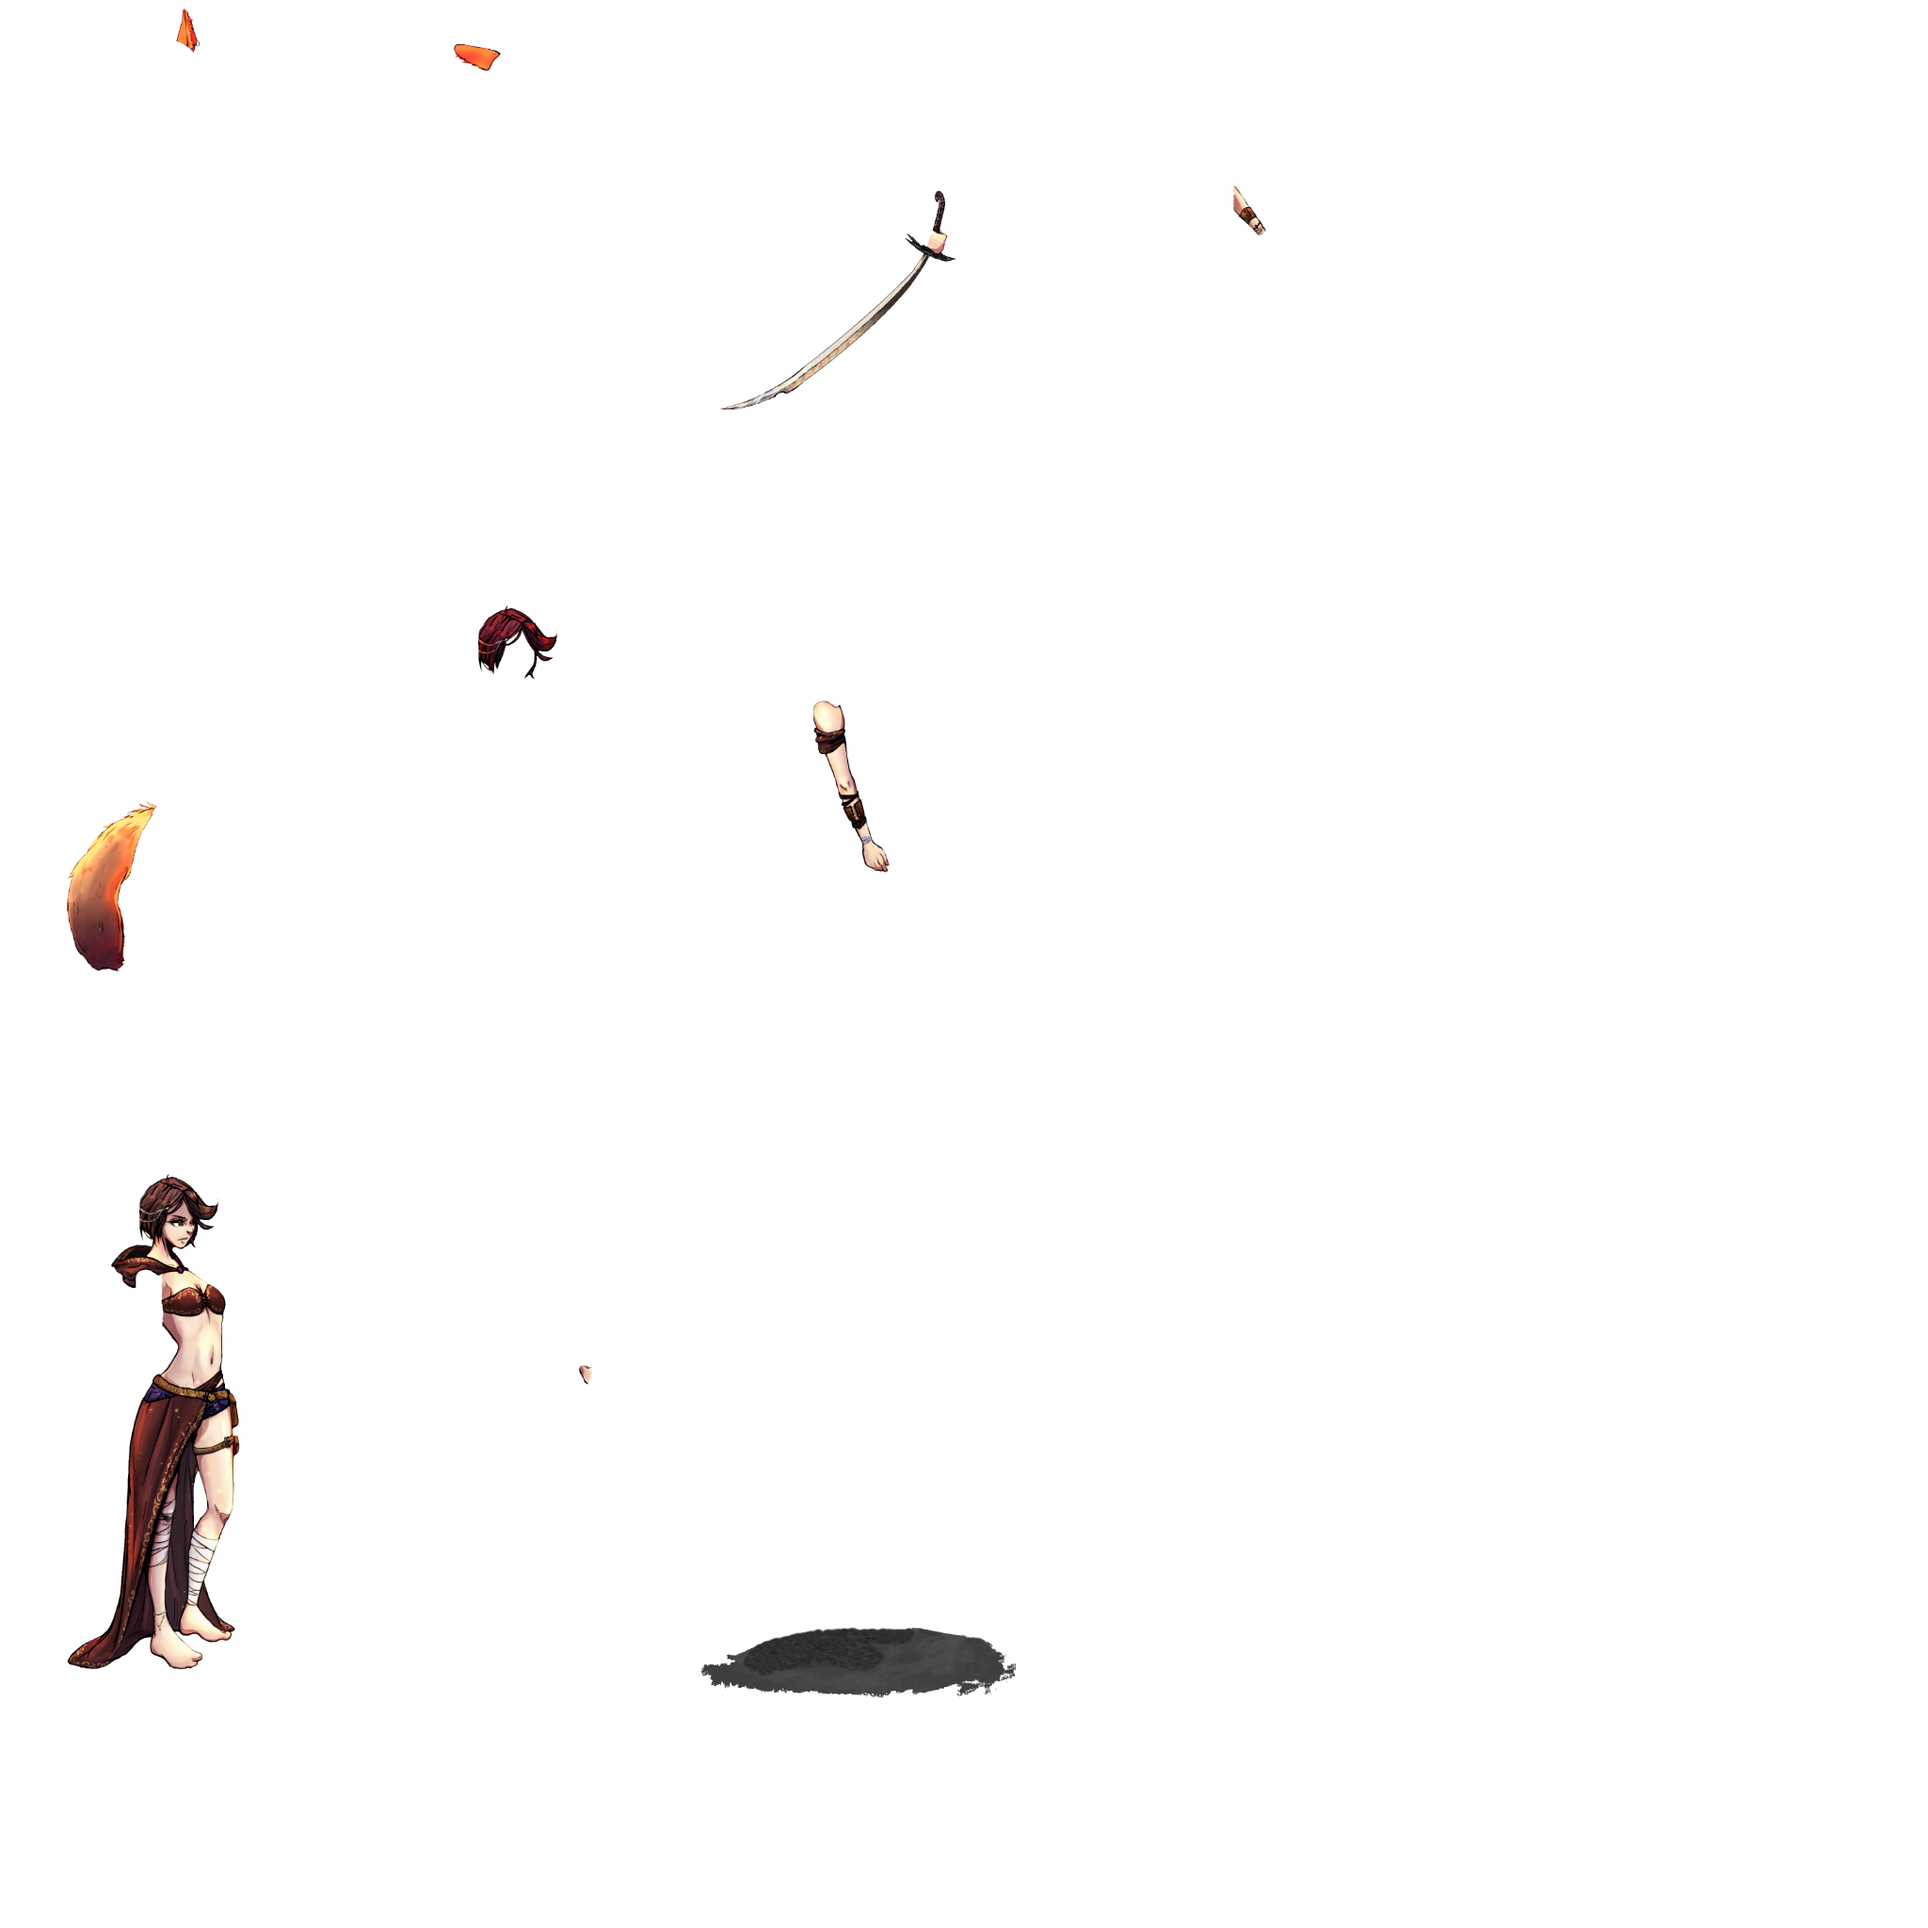
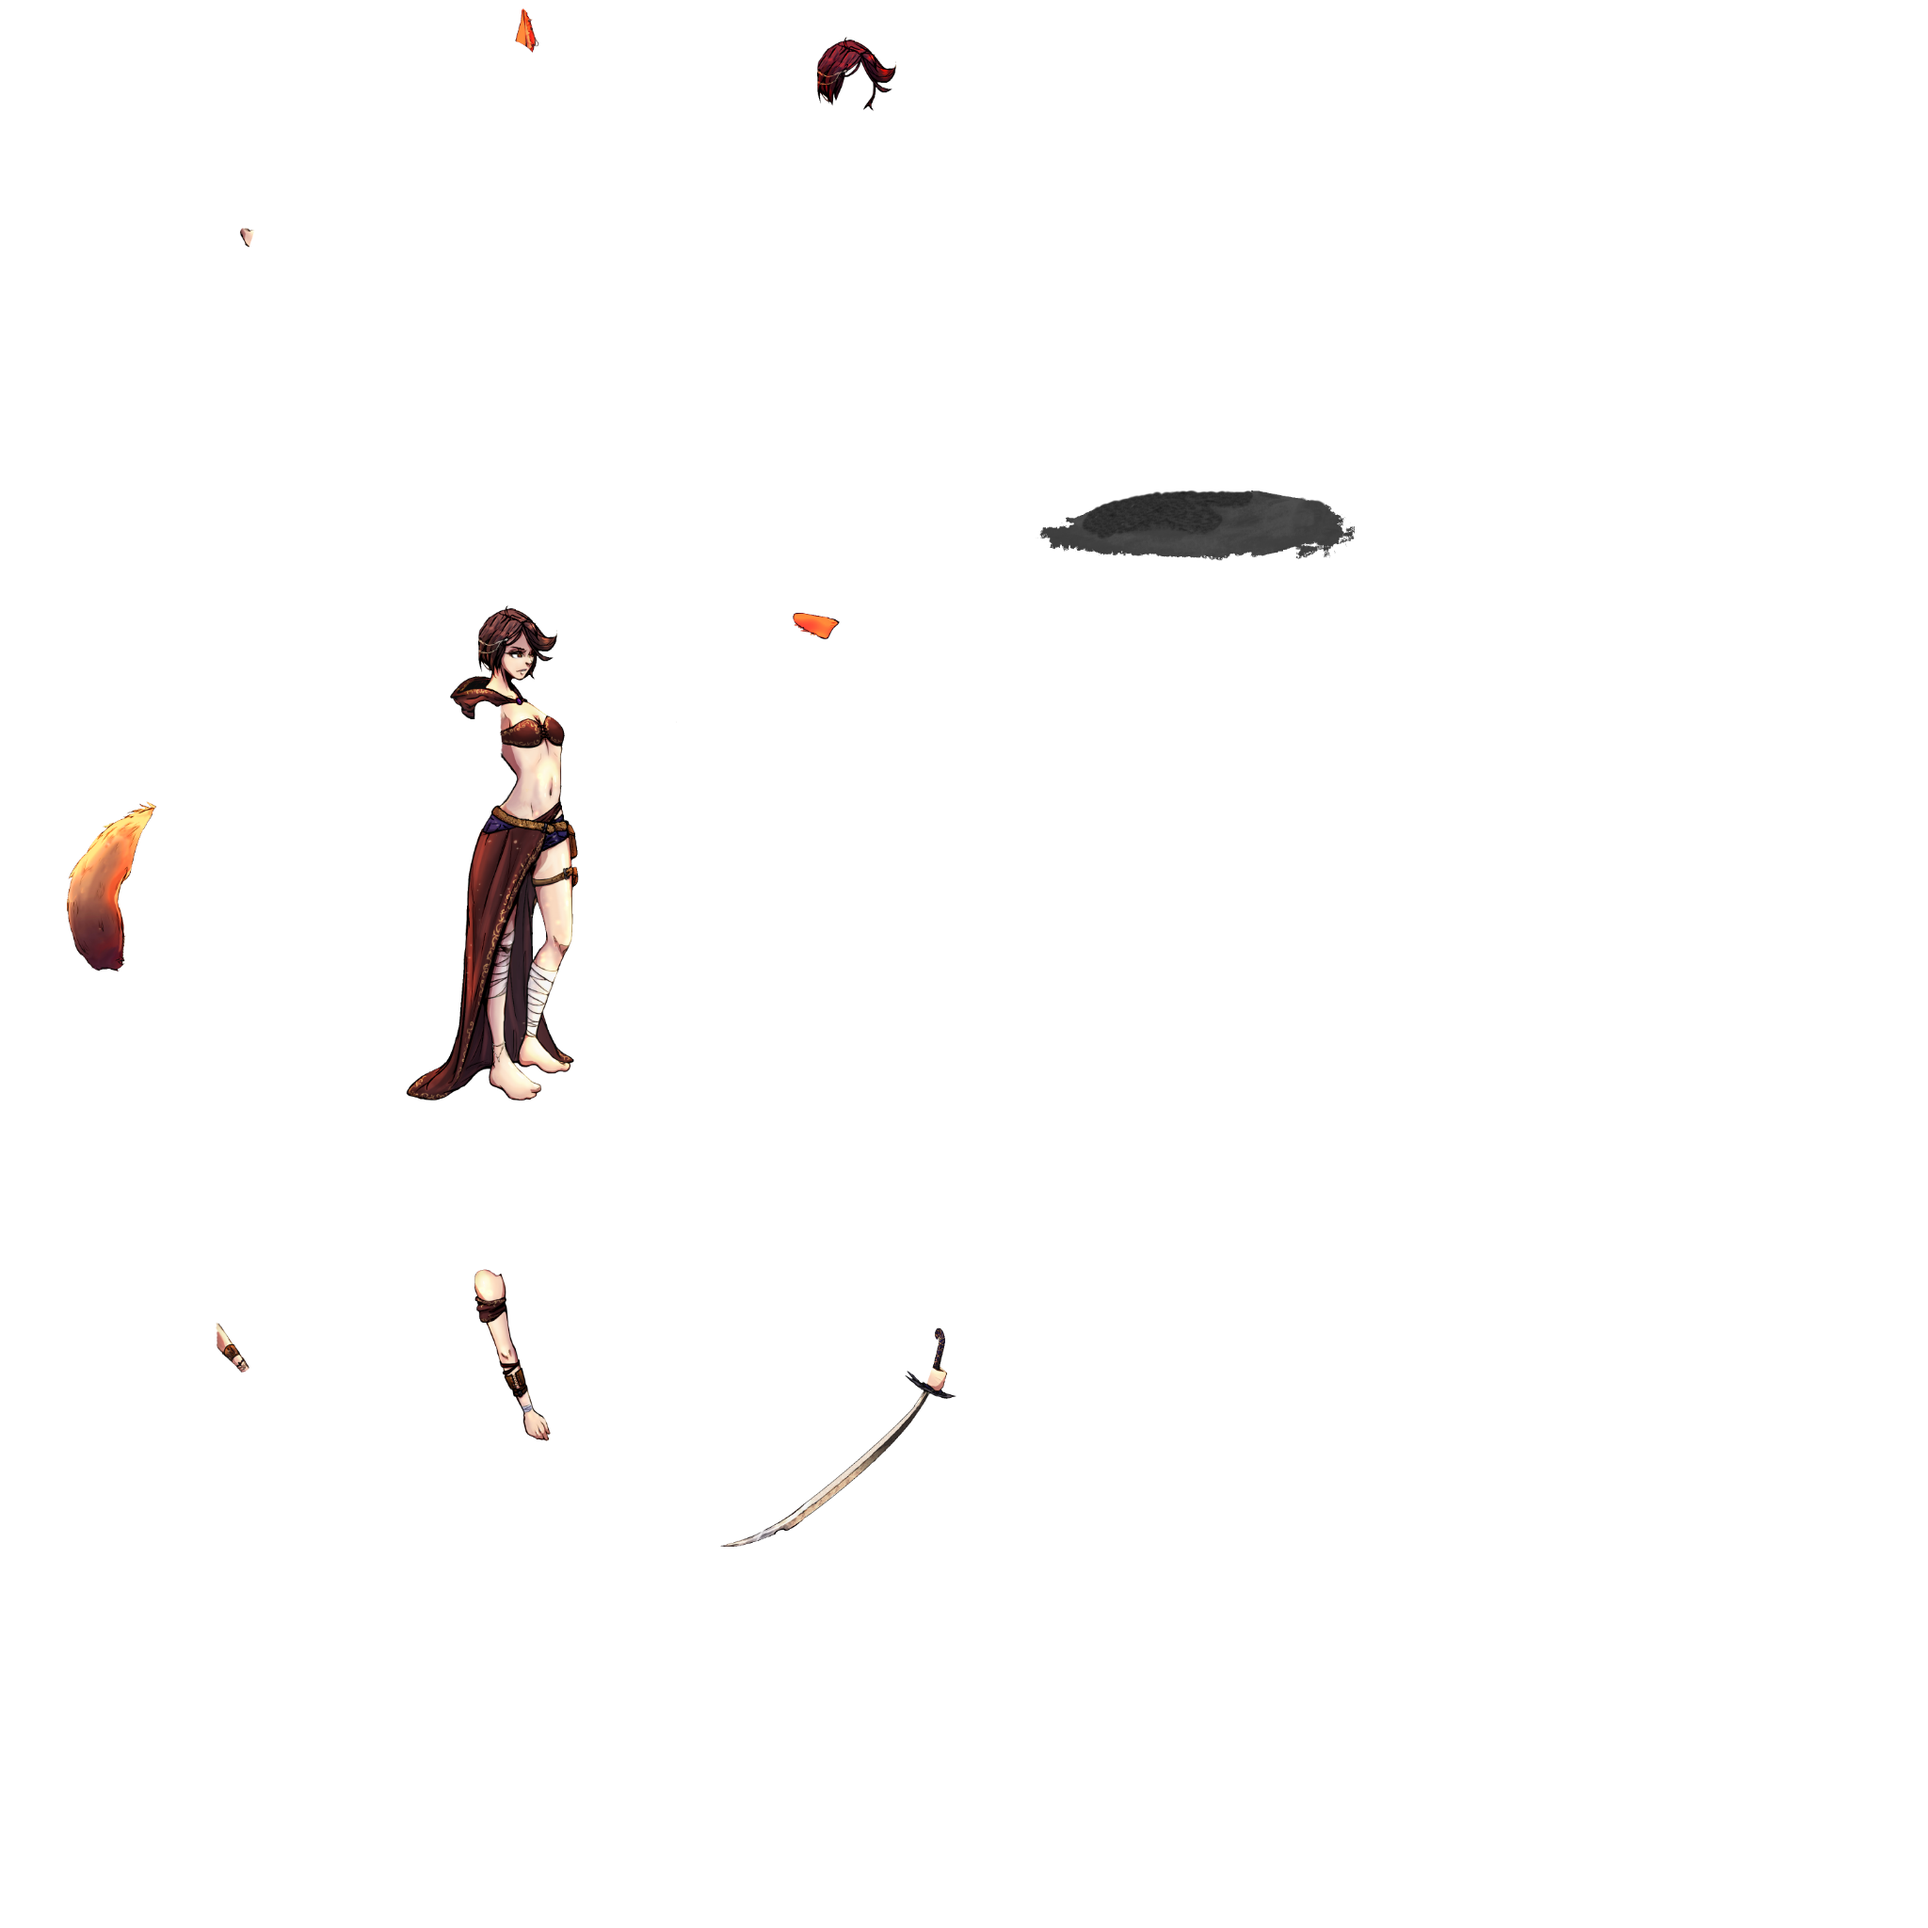
Changing animation framework

diff --git a/src/main/java/kitsunemod/character/KitsuneCharacter.java b/src/main/java/kitsunemod/character/KitsuneCharacter.java
@@ -8,6 +8,8 @@ import com.badlogic.gdx.graphics.g2d.BitmapFont;
 import com.badlogic.gdx.math.MathUtils;
 import com.esotericsoftware.spine.AnimationState;
 import com.esotericsoftware.spine.Skeleton;
+import com.esotericsoftware.spine.Slot;
+import com.esotericsoftware.spine.attachments.Attachment;
 import com.megacrit.cardcrawl.actions.AbstractGameAction;
 import com.megacrit.cardcrawl.actions.common.ApplyPowerAction;
 import com.megacrit.cardcrawl.cards.AbstractCard;
@@ -32,6 +34,7 @@ import kitsunemod.patches.KitsuneEnum;
 import kitsunemod.relics.StarterRelic;
 
 import java.util.ArrayList;
+import java.util.HashMap;
 
 public class KitsuneCharacter extends CustomPlayer {
     public static final int ENERGY_PER_TURN = 3;
@@ -46,7 +49,9 @@ public class KitsuneCharacter extends CustomPlayer {
     private static final String[] TEXT = characterStrings.TEXT;
     private static final float DIALOG_X_ADJUSTMENT = 0.0F;
     private static final float DIALOG_Y_ADJUSTMENT = 220.0F;
-    //private HashMap<String, >
+    private AnimationState.TrackEntry animationTrackEntry;
+    private HashMap<String, Attachment> storedAssets = new HashMap<>();
+    private HashMap<String, Slot> animationSlots = new HashMap<>();
     public static final String[] orbTextures = {
             "kitsunemod/images/char/orb/layer1.png",
             "kitsunemod/images/char/orb/layer2.png",
@@ -68,16 +73,37 @@ public class KitsuneCharacter extends CustomPlayer {
         dialogY = drawY + DIALOG_Y_ADJUSTMENT * Settings.scale;
 
         loadAnimation(SPINE_ATLAS, SPINE_SKELETON, 1.0F);
-        AnimationState.TrackEntry e = this.state.setAnimation(0, "Idle", true);
-        e.setTime(e.getEndTime() * MathUtils.random());
-        this.stateData.setMix("Hit", "Idle", 0.1F);
-        e.setTimeScale(1.0F);
+        animationTrackEntry = state.setAnimation(0, "Idle", true);
+        animationTrackEntry.setTime(animationTrackEntry.getEndTime() * MathUtils.random());
+        animationTrackEntry.setTimeScale(1.0F);
 
         initializeClass(null,
                 MY_CHARACTER_SHOULDER_2,
                 MY_CHARACTER_SHOULDER_1,
                 MY_CHARACTER_CORPSE,
                 getLoadout(), 20.0F, -10.0F, 220.0F, 290.0F, new EnergyManager(ENERGY_PER_TURN));
+    }
+
+    public void transformToFox() {
+
+    }
+
+    public void transformToKitsune() {
+        animationSlots.get("Kitsune Hair").setAttachment(storedAssets.get("Kitsune Hair"));
+        animationSlots.get("Kitsune Tail").setAttachment(storedAssets.get("Kitsune Tail"));
+        animationSlots.get("Kitsune Left Ear").setAttachment(storedAssets.get("Kitsune Left Ear"));
+        animationSlots.get("Kitsune Right Ear").setAttachment(storedAssets.get("Kitsune Right Ear"));
+    }
+
+    public void transformToHuman() {
+        animationSlots.get("Kitsune Hair").setAttachment(null);
+        animationSlots.get("Kitsune Tail").setAttachment(null);
+        animationSlots.get("Kitsune Left Ear").setAttachment(null);
+        animationSlots.get("Kitsune Right Ear").setAttachment(null);
+    }
+
+    public void transformToNinetailed() {
+
     }
 
     @Override
@@ -210,5 +236,21 @@ public class KitsuneCharacter extends CustomPlayer {
     @Override
     protected void loadAnimation(String atlasUrl, String skeletonUrl, float scale) {
         super.loadAnimation(atlasUrl, skeletonUrl, scale);
+
+        Slot hairSlot = skeleton.findSlot("Hair");
+        animationSlots.put("Kitsune Hair", hairSlot);
+        storedAssets.put("Kitsune Hair", hairSlot.getAttachment());
+
+        Slot tailSlot = skeleton.findSlot("Tail");
+        animationSlots.put("Kitsune Tail", tailSlot);
+        storedAssets.put("Kitsune Tail", tailSlot.getAttachment());
+
+        Slot leftEarSlot = skeleton.findSlot("Left_Ear");
+        animationSlots.put("Kitsune Left Ear", leftEarSlot);
+        storedAssets.put("Kitsune Left Ear", leftEarSlot.getAttachment());
+
+        Slot rightEarSlot = skeleton.findSlot("Right_Ear");
+        animationSlots.put("Kitsune Right Ear", rightEarSlot);
+        storedAssets.put("Kitsune Right Ear", rightEarSlot.getAttachment());
     }
 }

diff --git a/src/main/java/kitsunemod/actions/ChangeShapeAction.java b/src/main/java/kitsunemod/actions/ChangeShapeAction.java
@@ -7,6 +7,7 @@ import com.megacrit.cardcrawl.core.AbstractCreature;
 import com.megacrit.cardcrawl.core.Settings;
 import com.megacrit.cardcrawl.dungeons.AbstractDungeon;
 import kitsunemod.KitsuneMod;
+import kitsunemod.character.KitsuneCharacter;
 import kitsunemod.powers.*;
 
 public class ChangeShapeAction extends AbstractGameAction {
@@ -55,10 +56,16 @@ public class ChangeShapeAction extends AbstractGameAction {
                 case KITSUNE:
                     AbstractDungeon.actionManager.addToBottom(new ApplyPowerAction(target, source, new KitsuneShapePower(target, source)));
                     KitsuneMod.shapeshiftsThisCombat++;
+                    if (AbstractDungeon.player instanceof KitsuneCharacter) {
+                        ((KitsuneCharacter)AbstractDungeon.player).transformToKitsune();
+                    }
                     break;
                 case HUMAN:
                     AbstractDungeon.actionManager.addToBottom(new ApplyPowerAction(target, source, new HumanShapePower(target, source)));
                     KitsuneMod.shapeshiftsThisCombat++;
+                    if (AbstractDungeon.player instanceof KitsuneCharacter) {
+                        ((KitsuneCharacter)AbstractDungeon.player).transformToHuman();
+                    }
                     break;
                 case NINETAILED:
                     AbstractDungeon.actionManager.addToBottom(new ApplyPowerAction(target, source, new NinetailedShapePower(target, source)));
